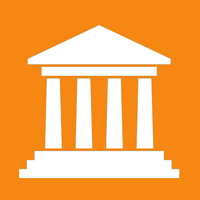
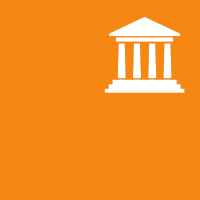
#45 Tiles images and style sheet update

diff --git a/Excellent.HTMLClient/Content/user-customization.css b/Excellent.HTMLClient/Content/user-customization.css
@@ -31,6 +31,9 @@
 
 /* Customizable font styles for screen controls */
 .msls-font-style-large {
+    color: #15548c;
+    font-size: 1.5rem;
+    font-weight: bold;
 }
 
 .msls-font-style-normal {
@@ -94,7 +97,7 @@ label,
 .msls-label label {
     font-size: 1rem;
     font-weight: bold;
-    color: black;
+    color: #5b5959;
     opacity: 1;
 }
 
@@ -126,6 +129,11 @@ label,
     color: white;
 }
 
+.msls-screen-tab > div {
+    margin-right: 0.8rem;
+}
+
+
 /* Footer */
 .msls-footer    {
     padding-top: 0.5rem;
@@ -154,48 +162,51 @@ label,
 .msls-footer .ui-icon-searchfield:after  {
     background-image: url(images/msls-blue-icons-36.png)!important
 }
+ 
+.metroTile {
+    position:absolute;
+    width:100%;
+    height:6rem; 
+    bottom:0px;
+    overflow:hidden;
+}
 
 a.ui-btn:hover .metroTile
 {
     height:100%;
 }
- 
-.metroTile {
-    transition: height 1s; 
-    position:absolute;
-    width:100%;
-    height:50px; 
-    bottom:0px;
-    overflow:hidden;
+
+a.ui-btn:hover .metroTile .background   {
+    background-color:rgba( 0,0,0,0.6 );
 }
+
 .metroTile .background {
     position:absolute;
     width:100%;
     height:100%;
-    background-color:rgba( 0,0,0,0.6 );
-    opacity:0.8;    
     z-index:0;
+    opacity: 0.2;
 }
 .metroTile .title {
     position:absolute;
-    top:0px;
-    height:4rem;
+    bottom: 0rem;
+    height:6rem;
     color:#FFF;  
     z-index:2; 
     width:100%; 
-    font-size: 1.5rem;
 }
 .metroTile .title p {
     position:absolute;
     bottom:0px;  
-    left:15px;
-    right:15px;
+    left:1.5rem;
+    font-size: 1rem;
+    text-transform: uppercase;
 }
 .metroTile .description {    
     left:15px;
     right:15px;
     position:absolute;
     color:#FFF;  
-    top:50px; 
+    top:6rem; 
     z-index:2;     
 }

diff --git a/Excellent.HTMLClient/Screens/Dashboards/AdminDashboard.lsml.js b/Excellent.HTMLClient/Screens/Dashboards/AdminDashboard.lsml.js
@@ -59,13 +59,13 @@ myapp.AdminDashboard.Sponsorships_postRender = function (element, contentItem) {
     });
 };
 myapp.AdminDashboard.Participations_postRender = function (element, contentItem) {
-    $(element).metroTile(contentItem, { imageUrl: 'Content/Images/tile-users.png' });
+    $(element).metroTile(contentItem, { imageUrl: 'Content/Images/tile-participations.png' });
 };
 myapp.AdminDashboard.AddNewCompany_postRender = function (element, contentItem) {
-    $(element).metroTile(contentItem, { imageUrl: 'Content/Images/tile-users.png' });
+    $(element).metroTile(contentItem, { imageUrl: 'Content/Images/tile-add-company.png' });
 };
 myapp.AdminDashboard.Exceptions_postRender = function (element, contentItem) {
-    $(element).metroTile(contentItem, { imageUrl: 'Content/Images/tile-users.png' });
+    $(element).metroTile(contentItem, { imageUrl: 'Content/Images/tile-exceptions.png' });
 };
 
 myapp.AdminDashboard.created = function (screen) {
